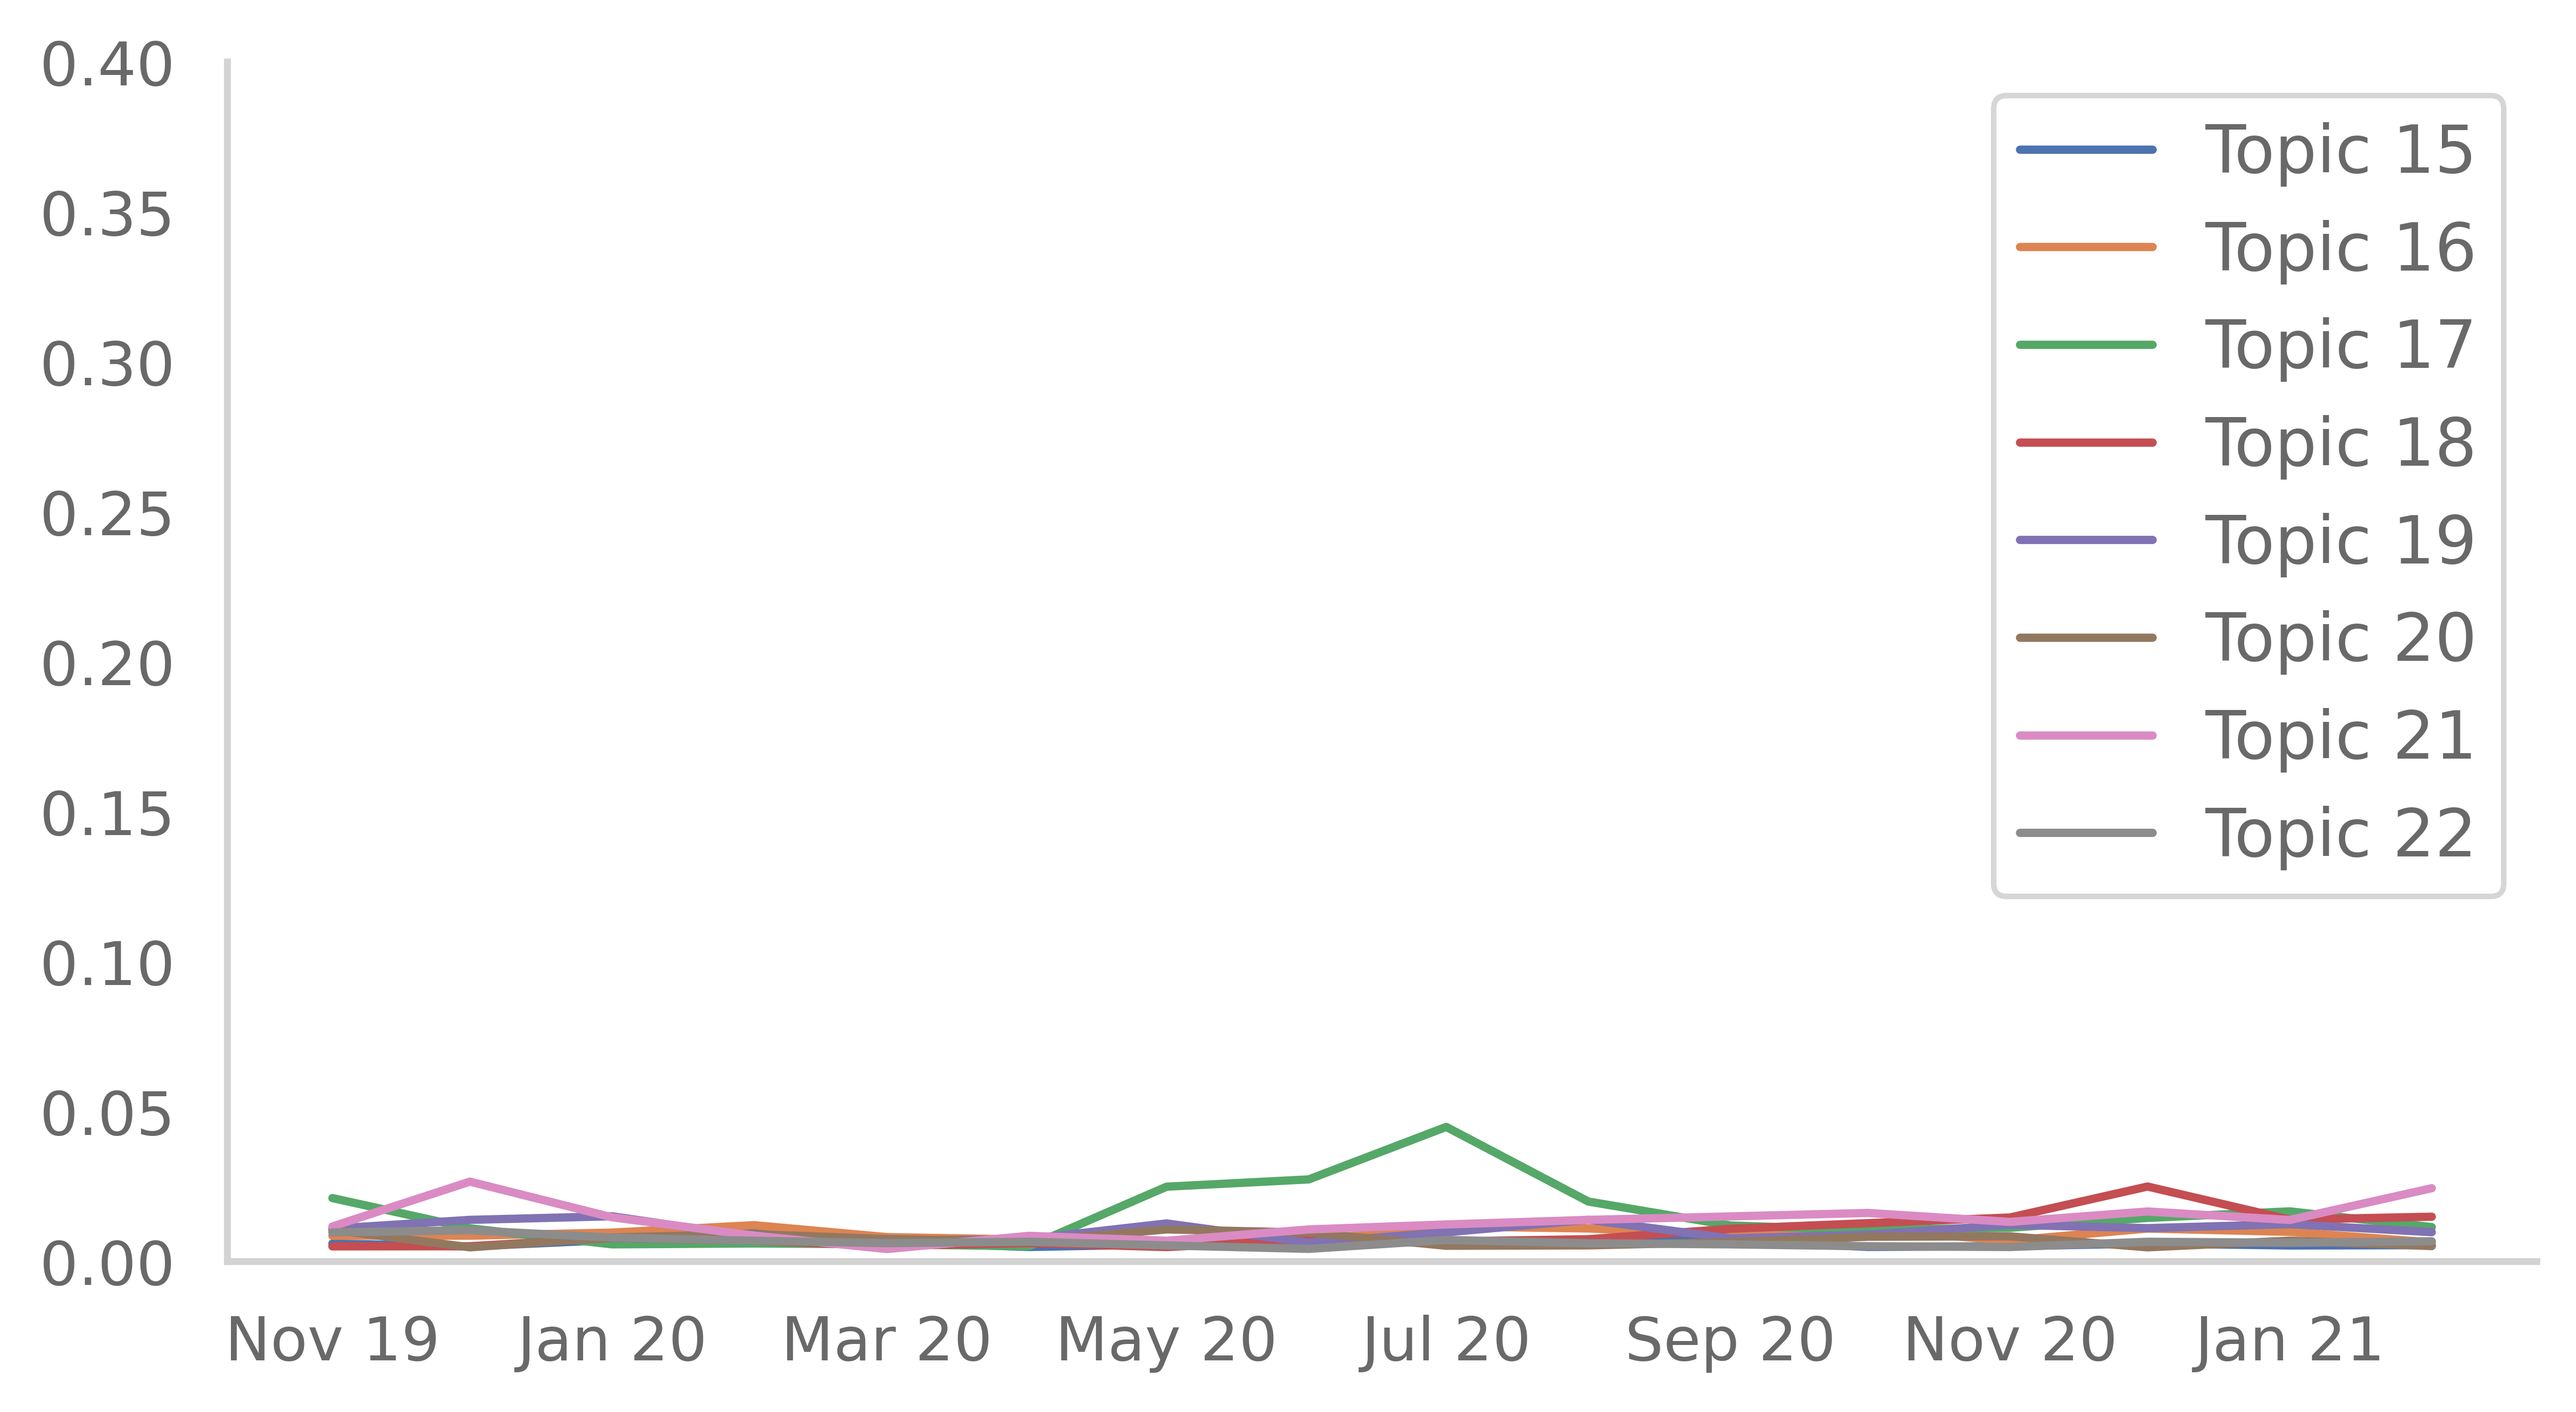
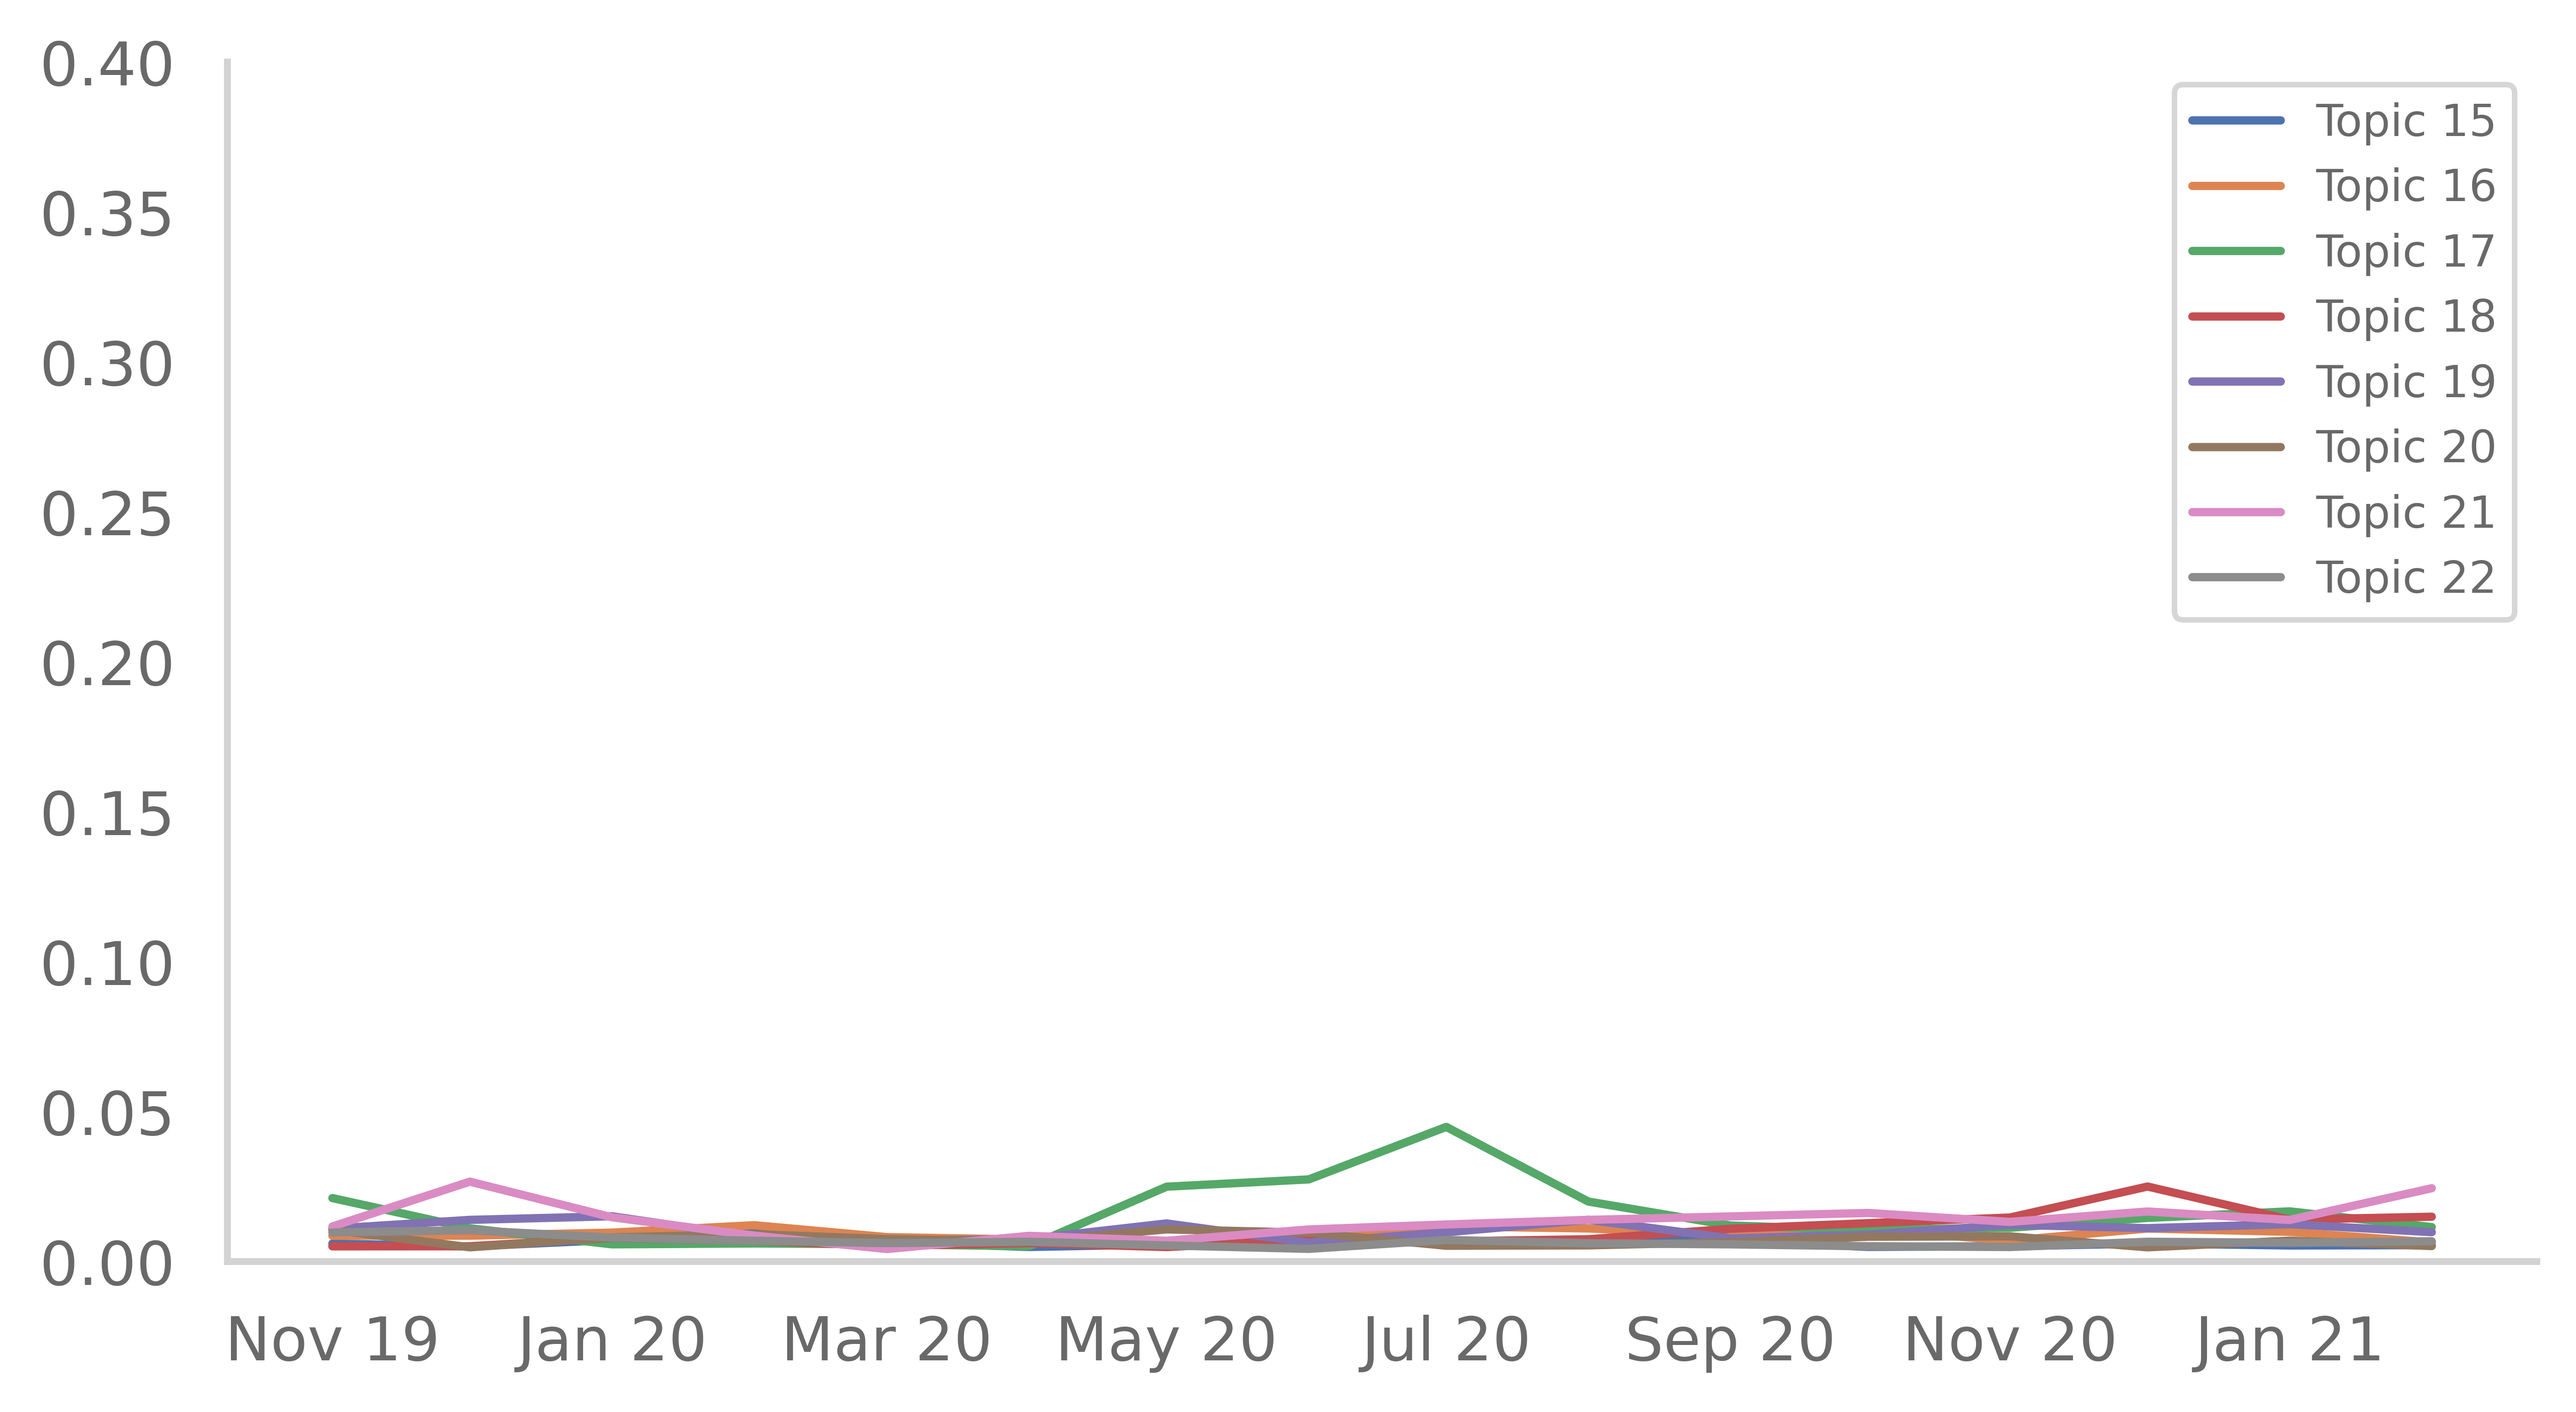
small tweaks

Changed region(s): [[0.7808, 0.0309, 0.9994, 0.4641], [0.7808, 0.4951, 0.9682, 0.6498], [0.937, 0.4951, 0.9682, 0.526]]

diff --git a/README.md b/README.md
@@ -234,22 +234,25 @@ insert: china-twitter/topic-model/plots/topic_model_media.html
 ![alt text](https://github.com/centre-for-humanities-computing/china-twitter/blob/main/topic-model/plots/topics_over_time_1_7.png)
 
 #### Figure 8a (v2)
+![alt text](https://github.com/centre-for-humanities-computing/china-twitter/blob/main/topic-model/plots/topics_over_time_1_7_legend.png)
 
 #### Figure 8b (v1)
 ![alt text](https://github.com/centre-for-humanities-computing/china-twitter/blob/main/topic-model/plots/topics_over_time_8_14.png)
 
 #### Figure 8b (v2)
+![alt text](https://github.com/centre-for-humanities-computing/china-twitter/blob/main/topic-model/plots/topics_over_time_8_14_legend.png)
 
 #### Figure 8c (v1)
 ![alt text](https://github.com/centre-for-humanities-computing/china-twitter/blob/main/topic-model/plots/topics_over_time_15_22.png)
 
 #### Figure 8c (v2)
+![alt text](https://github.com/centre-for-humanities-computing/china-twitter/blob/main/topic-model/plots/topics_over_time_15_22_legend.png)
 
 #### Figure 8d (v1)
 ![alt text](https://github.com/centre-for-humanities-computing/china-twitter/blob/main/topic-model/plots/topics_over_time_23_30.png)
 
 #### Figure 8d (v2)
-
+![alt text](https://github.com/centre-for-humanities-computing/china-twitter/blob/main/topic-model/plots/topics_over_time_23_30_legend.png)
 
 
 ## Extract data
